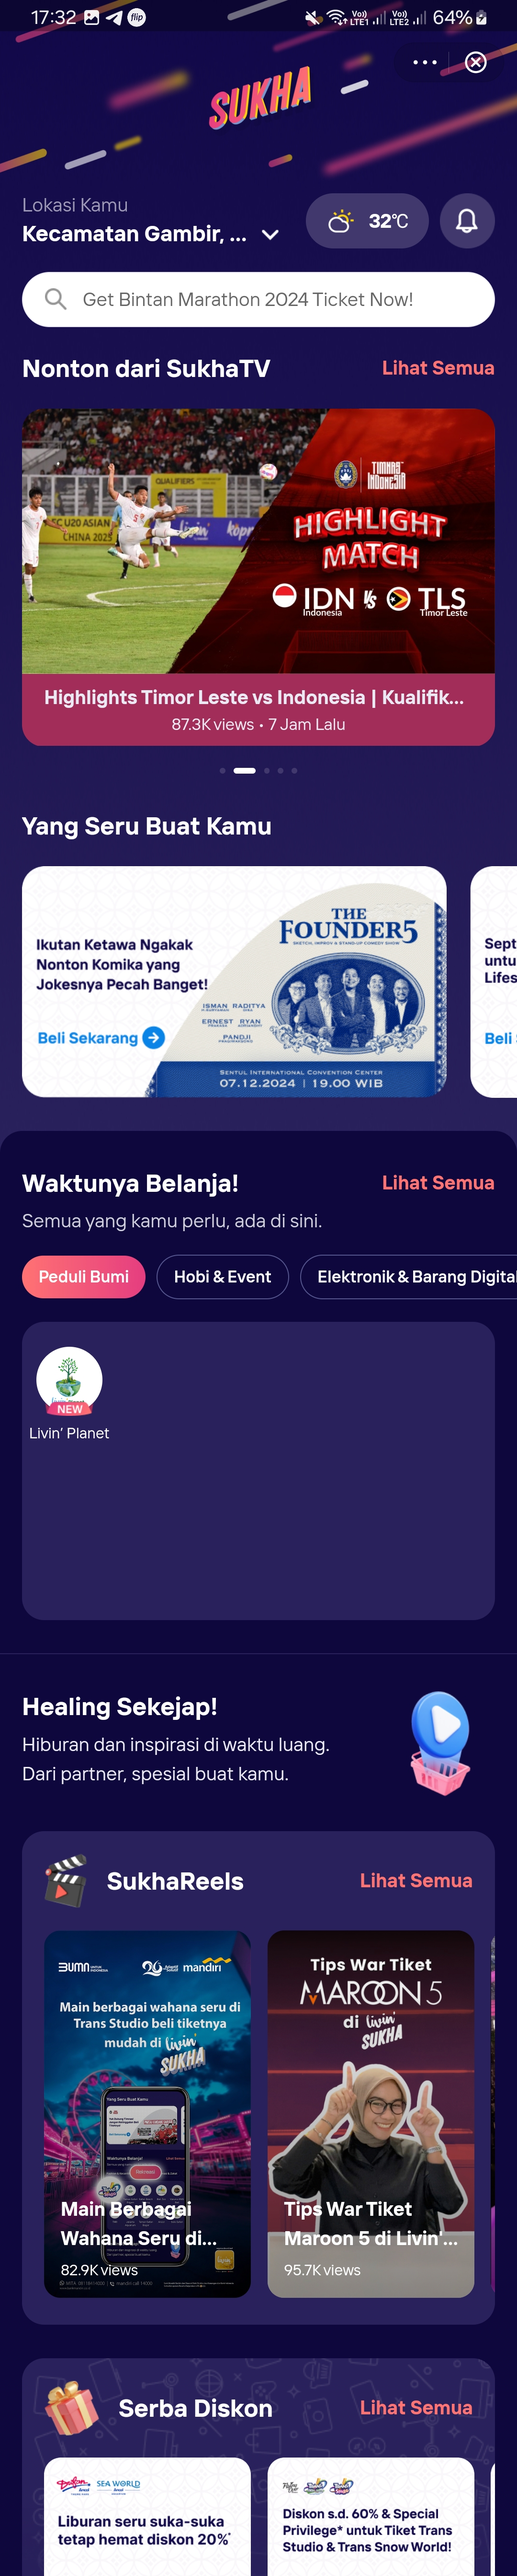
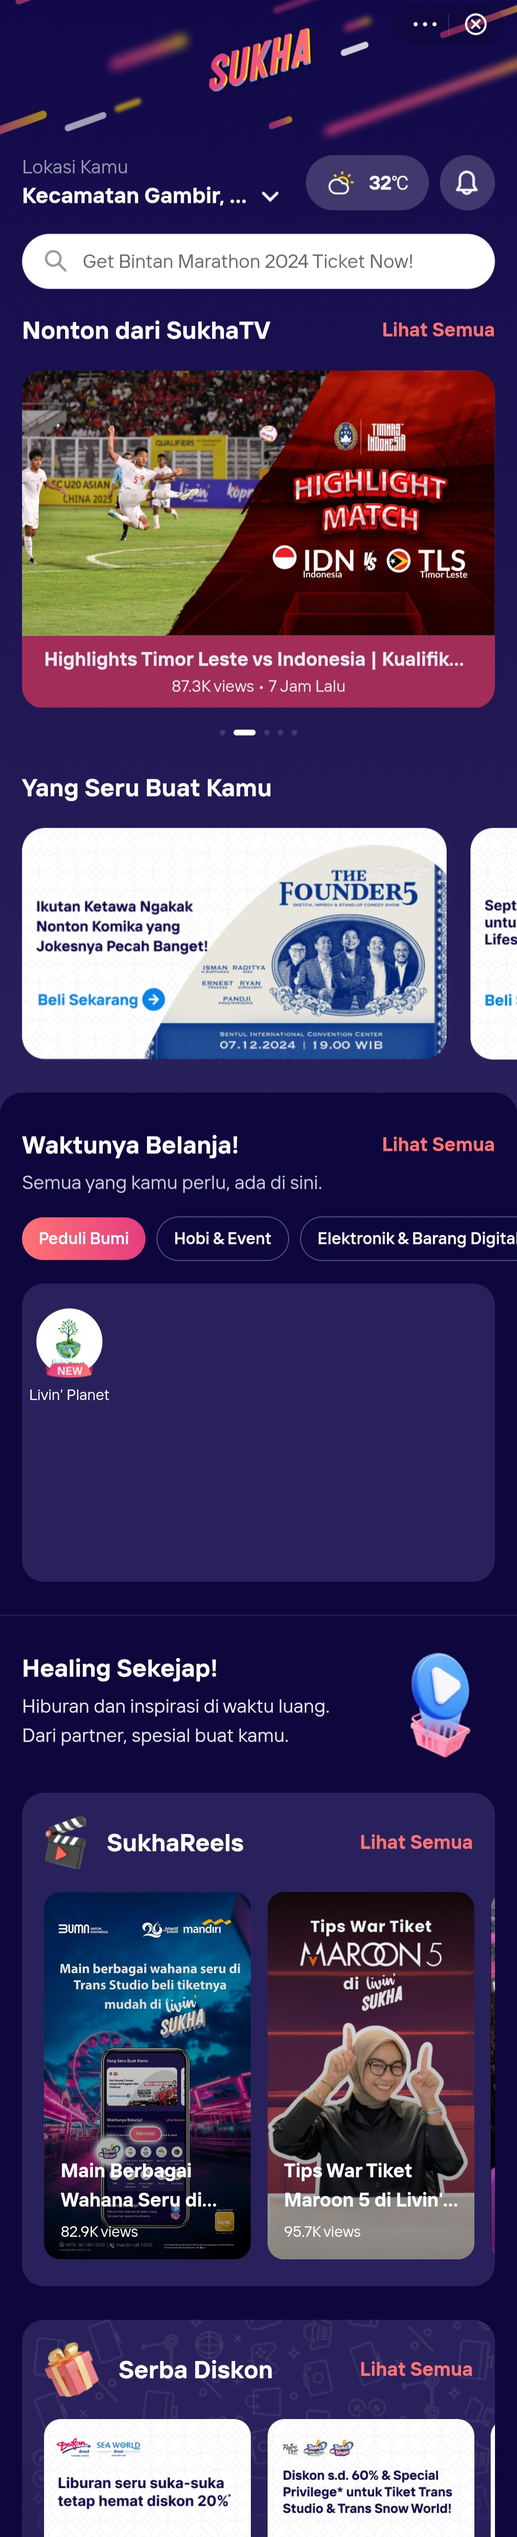
change webview appbar

diff --git a/lib/screens/sukha_screen.dart b/lib/screens/sukha_screen.dart
@@ -1,4 +1,5 @@
 import 'package:flutter/material.dart';
+import 'package:flutter_screenutil/flutter_screenutil.dart';
 
 class SukhaScreen extends StatelessWidget {
   const SukhaScreen({super.key});
@@ -6,14 +7,29 @@ class SukhaScreen extends StatelessWidget {
   @override
   Widget build(BuildContext context) {
     return Scaffold(
-      body: SingleChildScrollView(
-        child: Image.asset(
-          "assets/images/img_sukha_screen.jpg",
-          fit: BoxFit.fitWidth,
-          width: MediaQuery.of(context)
-              .size
-              .width, // Set the width to fit the screen
-        ),
+      body: Stack(
+        children: [
+          SingleChildScrollView(
+            child: Image.asset(
+              "assets/images/img_sukha_screen.jpg",
+              fit: BoxFit.fitWidth,
+              width: MediaQuery.of(context)
+                  .size
+                  .width, // Set the width to fit the screen
+            ),
+          ),
+          Positioned(
+            top: 32.r, // Adjust the distance from the top
+            right: 16, // Adjust the distance from the right
+            child: FloatingActionButton.small(
+              onPressed: () => Navigator.pop(context),
+              shape: const CircleBorder(),
+              backgroundColor: Colors.white,
+              materialTapTargetSize: MaterialTapTargetSize.shrinkWrap,
+              child: const Icon(Icons.cancel),
+            ),
+          ),
+        ],
       ),
     );
   }

diff --git a/lib/screens/web_view_screen.dart b/lib/screens/web_view_screen.dart
@@ -1,6 +1,7 @@
 import 'dart:io';
 
 import 'package:dolphin_livin_demo/screens/sukha_screen.dart';
+import 'package:dolphin_livin_demo/widgets/webView/web_view_app_bar.dart';
 import 'package:flutter/material.dart';
 import 'package:flutter_screenutil/flutter_screenutil.dart';
 import 'package:url_launcher/url_launcher.dart';
@@ -102,11 +103,13 @@ class _WebViewScreenState extends State<WebViewScreen> {
   Widget build(BuildContext context) {
     return Scaffold(
       appBar: PreferredSize(
-          preferredSize: Size.fromHeight(16.r),
-          child: AppBar(
-            automaticallyImplyLeading: false,
-          )),
-      body: WebViewWidget(controller: webViewController),
+        preferredSize: Size.fromHeight(57.r),
+        child: const WebViewAppBar(),
+      ),
+      body: Container(
+          color: Colors.white,
+          padding: EdgeInsets.only(top: 4.r),
+          child: WebViewWidget(controller: webViewController)),
     );
   }
 }

diff --git a/lib/widgets/webView/web_view_app_bar.dart b/lib/widgets/webView/web_view_app_bar.dart
@@ -1,0 +1,32 @@
+import 'package:flutter/material.dart';
+import 'package:flutter_screenutil/flutter_screenutil.dart';
+
+class WebViewAppBar extends StatelessWidget {
+  const WebViewAppBar({super.key});
+
+  @override
+  Widget build(BuildContext context) {
+    return AppBar(
+      elevation: 4.r,
+      surfaceTintColor: Colors.white,
+      backgroundColor: Colors.white,
+      shadowColor: Colors.black26,
+      leading: Padding(
+        padding: EdgeInsets.all(8.r),
+        child: Image.asset("assets/images/ic_mita.png"),
+      ),
+      title: const Text(
+        "MITA",
+        style: TextStyle(
+          fontWeight: FontWeight.w500,
+          color: Color(0xff3E3E3E),
+        ),
+      ),
+      actions: [
+        IconButton(
+            onPressed: () => Navigator.pop(context),
+            icon: const Icon(Icons.cancel))
+      ],
+    );
+  }
+}
